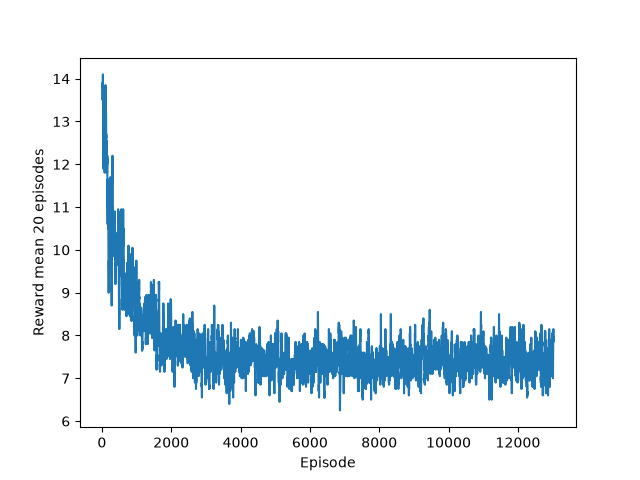
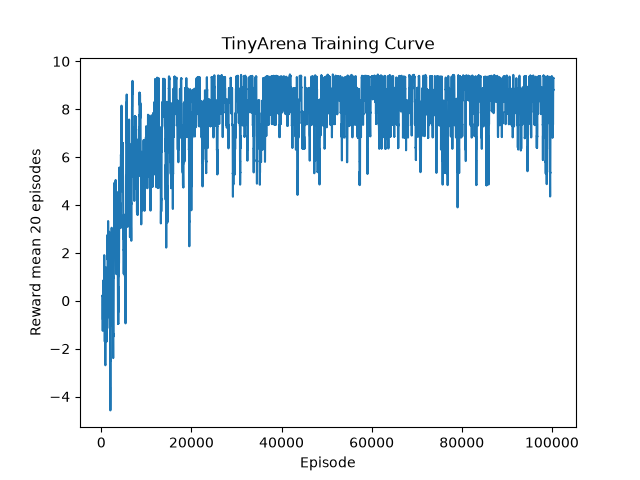
fix: regenerate TinyArena training curve from monitor.csv
- plot.py reads monitor.csv rolling 20 mean
- curve.png now shows correct rising curve ~0 -> 8.3

diff --git a/project2-tiny-arena/plot.py b/project2-tiny-arena/plot.py
@@ -1,0 +1,11 @@
+import pandas as pd
+import matplotlib.pyplot as plt
+
+df = pd.read_csv("monitor.csv", skiprows=1)
+# monitor.csv: r = reward, l = episode length
+plt.plot(df["l"].cumsum(), df["r"].rolling(20).mean())
+plt.xlabel("Episode")
+plt.ylabel("Reward mean 20 episodes")
+plt.title("TinyArena Training Curve")
+plt.savefig("curve.png")
+print("saved curve.png")
